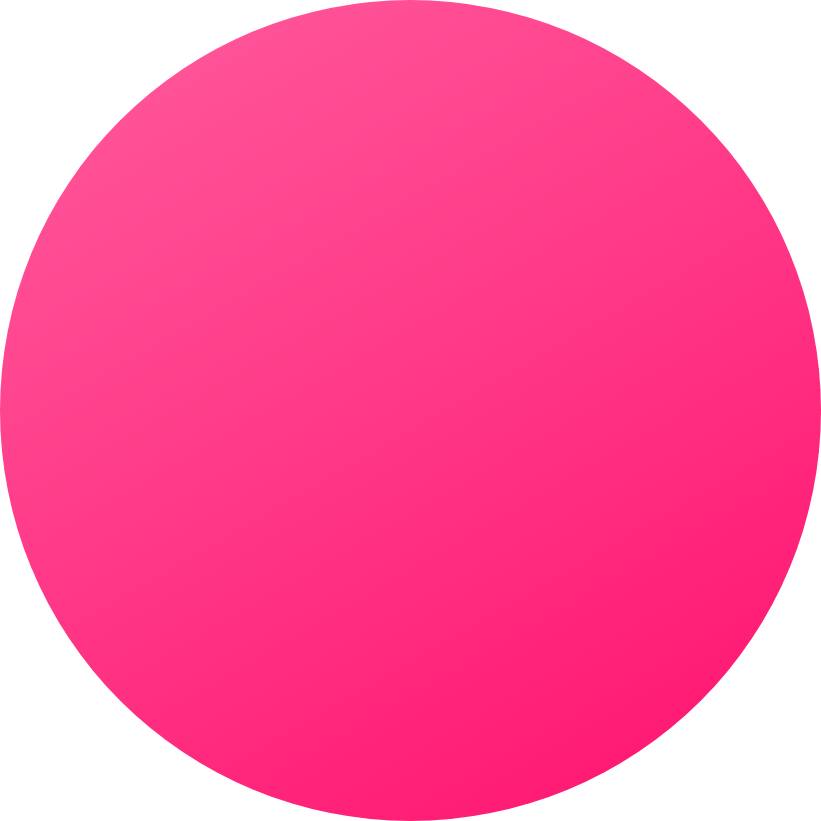
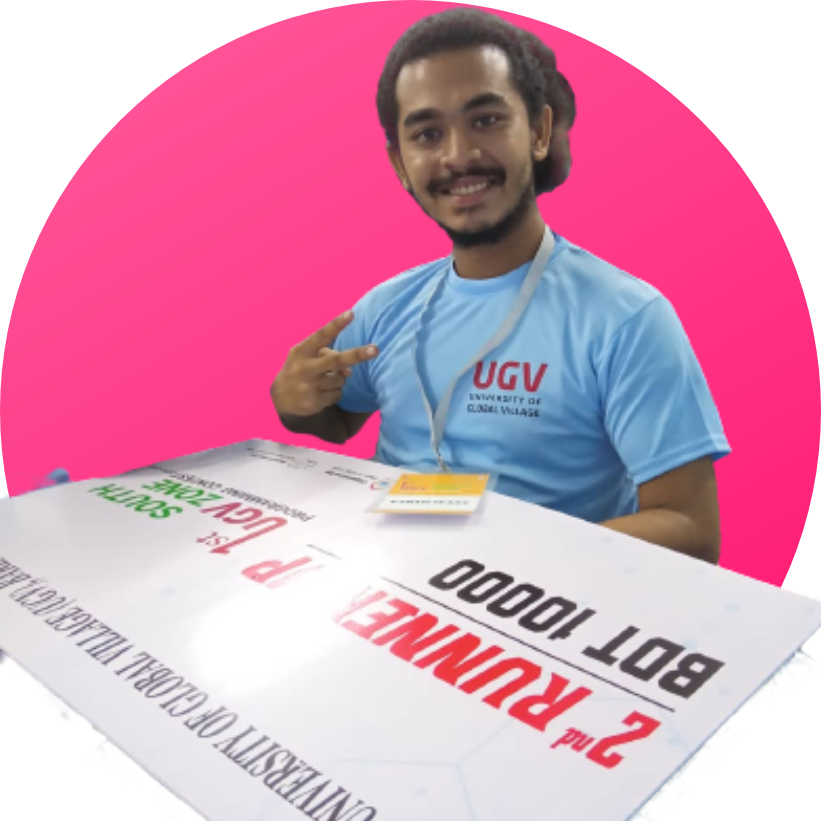
xx

diff --git a/index.html b/index.html
@@ -36,5 +36,18 @@
             <img src="Resources/first.png" alt="">
         </div>
     </section>
+
+
+
+
+
+    <section class="secondBanner">
+        <div class="part2">
+            <img src="Resources/image 11 (1).png" alt="">
+        </div>
+        <div class="part2">
+
+        </div>
+    </section>
 </body>
 </html>
